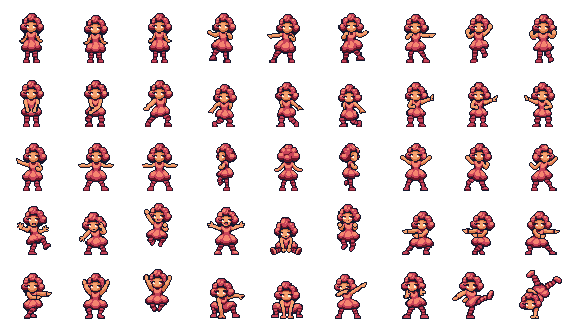
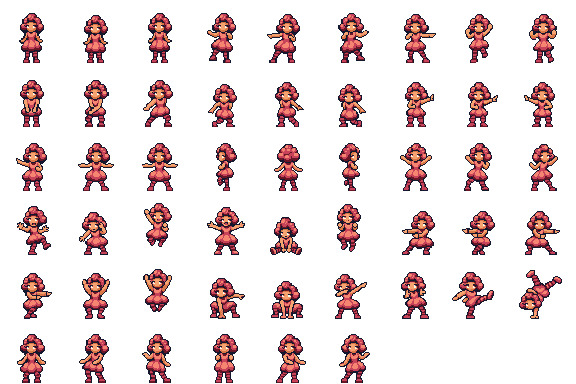
Add an idle dance loop so moves flow into each other
Both dancers now keep up a six-frame two-step groove while the music
plays, indexed from the beat so it holds its place through poses and
pauses. A lane pose is released on the next half beat instead of after
a fixed time, and each new pose gets a short squash, so the change back
to the groove lands on the music. The standing idle is kept for the
count-in.

The converter drops stray specks, and idle frames are centred on the
feet so the body sways without the feet sliding.

Claude-Session: https://claude.ai/code/session_01HtPH4yiA1RL6qEeafuyuW3

diff --git a/src/play/characters.ts b/src/play/characters.ts
@@ -3,8 +3,10 @@ import { PX, Tex, type Lane } from '../core/config';
 import type { RivalKind } from '../core/chart';
 import { Depth } from './layout';
 
-/** How long a dance pose is held before returning to idle, in seconds. */
-const POSE_HOLD = 0.55;
+/** Shortest time a dance pose is held, in seconds. It then ends on the next half beat. */
+const POSE_HOLD = 0.3;
+/** A pose never outstays this, however slow the song. */
+const POSE_MAX = 0.75;
 const POSE_FRAME_TIME = 0.11;
 /** Hitting the same lane again within this time switches to the alternate move. */
 const REPEAT_WINDOW = 1.2;
@@ -14,7 +16,13 @@ const SPIN_FINISH_TIME = 0.4;
 const FINISHER_TIME = 0.6;
 
 interface FrameSet {
+  /** Standing idle, used before the music starts. */
   idle: number[];
+  /**
+   * Idle dance: one frame per half beat, looped while the music plays. Poses
+   * drop back into it on the beat, wherever the loop has got to.
+   */
+  groove?: number[];
   /** One pose per lane: left, up, down, right. */
   lanes: number[][];
   /** A second move per lane, used when the same lane is hit twice in a row. */
@@ -37,6 +45,8 @@ interface FrameSet {
 // Shared by Blackberry and Raspberry. Frame layout is documented in tools/build_characters.py.
 const BERRY: FrameSet = {
   idle: [0, 1, 2],
+  // centre, left, left accent, left, centre, right, right accent, right
+  groove: [45, 46, 47, 46, 48, 49, 50, 49],
   lanes: [
     [3, 4],
     [7, 8],
@@ -89,24 +99,26 @@ export class Dancer {
   private readonly scene: Phaser.Scene;
   private readonly frames: FrameSet;
   private readonly baseY: number;
+  private readonly baseScale: number;
   private mode: Mode = 'idle';
   private sequence: number[] = [];
   private frameTime = POSE_FRAME_TIME;
   private duration = 0;
   private elapsed = 0;
-  private idleStep = 0;
   private lastHalfBeat = -Infinity;
   private lastLane = -1;
   private sinceDance = Infinity;
   private useAlt = false;
   private holding = false;
   private hype = false;
+  private grooving = false;
   private specialCount = 0;
 
   constructor(scene: Phaser.Scene, x: number, y: number, texture: string, frames: FrameSet, scale: number, originX: number, originY: number) {
     this.scene = scene;
     this.frames = frames;
     this.baseY = y;
+    this.baseScale = scale;
     this.sprite = scene.add.sprite(x, y, texture, frames.idle[0]).setOrigin(originX, originY).setScale(scale).setDepth(Depth.characters);
   }
 
@@ -127,12 +139,18 @@ export class Dancer {
     }
     this.lastLane = lane;
     this.sinceDance = 0;
-    this.start('pose', frames, POSE_FRAME_TIME, POSE_HOLD);
+    this.start('pose', frames, POSE_FRAME_TIME, POSE_MAX);
+    this.pop();
   }
 
   /** Groove in place while a hold note is being held. */
   setHolding(holding: boolean): void {
     this.holding = holding;
+  }
+
+  /** Switch from the standing idle to the idle dance once the music is playing. */
+  setGrooving(grooving: boolean): void {
+    this.grooving = grooving;
   }
 
   /** Bounce harder while the score multiplier is at its maximum. */
@@ -159,7 +177,7 @@ export class Dancer {
       this.start('special', [f.finishers![pick - 1]], FINISHER_TIME, FINISHER_TIME);
     }
     this.scene.tweens.killTweensOf(this.sprite);
-    this.sprite.setY(this.baseY);
+    this.sprite.setY(this.baseY).setScale(this.baseScale);
     this.scene.tweens.add({ targets: this.sprite, y: this.baseY - 4 * PX, duration: 130, yoyo: true, ease: 'Quad.easeOut' });
   }
 
@@ -180,24 +198,38 @@ export class Dancer {
       this.sprite.setFrame(this.sequence[Math.floor(this.elapsed / this.frameTime) % this.sequence.length]);
       return;
     }
+    const halfBeat = Math.floor(beat * 2);
     if (this.mode !== 'idle') {
-      if (this.elapsed < this.duration) {
+      // A lane pose is released on the first half beat after its minimum hold, so the
+      // return to the idle dance lands on the music instead of at an arbitrary moment.
+      const onBeat = this.mode === 'pose' && this.elapsed >= POSE_HOLD && halfBeat !== this.lastHalfBeat;
+      if (this.elapsed < this.duration && !onBeat) {
         this.sprite.setFrame(this.sequence[Math.min(this.sequence.length - 1, Math.floor(this.elapsed / this.frameTime))]);
+        this.lastHalfBeat = halfBeat;
         return;
       }
       this.mode = 'idle';
       this.lastHalfBeat = -Infinity;
     }
-    // Idle and hold grooves step once per half beat so the bounce follows the music.
-    const halfBeat = Math.floor(beat * 2);
     if (halfBeat === this.lastHalfBeat) return;
     this.lastHalfBeat = halfBeat;
-    this.idleStep++;
     const f = this.frames;
     let loop = f.idle;
     if (this.holding && f.hold) loop = f.hold;
-    else if (this.hype && f.hype !== undefined) loop = [f.hype, f.idle[1]];
-    this.sprite.setFrame(loop[this.idleStep % loop.length]);
+    else if (this.grooving && f.groove) loop = f.groove;
+    // Index from the beat itself, so the loop keeps its place through poses and pauses.
+    const step = Phaser.Math.Wrap(halfBeat, 0, loop.length);
+    const frame = this.hype && f.hype !== undefined && !this.holding && step % 4 === 0 ? f.hype : loop[step];
+    this.sprite.setFrame(frame);
+  }
+
+  /** A quick squash that makes a change of pose read as a deliberate hit. */
+  private pop(): void {
+    const s = this.sprite;
+    const scale = this.baseScale;
+    this.scene.tweens.killTweensOf(s);
+    s.setY(this.baseY).setScale(scale * 1.05, scale * 0.93);
+    this.scene.tweens.add({ targets: s, scaleX: scale, scaleY: scale, duration: 110, ease: 'Quad.easeOut' });
   }
 
   private start(mode: Mode, sequence: number[], frameTime: number, duration: number): void {

diff --git a/src/core/config.ts b/src/core/config.ts
@@ -63,8 +63,8 @@ export const Tex = {
   room: 'room', // 256x160
   train: 'train', // 25 frames, 256x160
   berrySit: 'berry_sit', // 25 frames, 75x75
-  blackberry: 'blackberry', // 45 frames, 64x64, feet at y=62 (layout in tools/build_characters.py)
-  raspberry: 'raspberry', // 45 frames, 64x64, same layout as blackberry
+  blackberry: 'blackberry', // 51 frames, 64x64, feet at y=62 (layout in tools/build_characters.py)
+  raspberry: 'raspberry', // 51 frames, 64x64, same layout as blackberry
   dancer: 'dancer', // 39 frames, 160x160
   notes: 'notes', // 8 frames, 18x18: 0-3 coloured notes, 4-7 pale receptors (lane order)
   arrowsClassic: 'arrows_classic', // 128x128 sheet of the older arrow style, 32x32 cells

diff --git a/src/scenes/PlayScene.ts b/src/scenes/PlayScene.ts
@@ -405,6 +405,8 @@ export class PlayScene extends Phaser.Scene {
       if (this.state === 'playing') {
         this.player.setHolding(([0, 1, 2, 3] as Lane[]).some((lane) => this.engine.heldNote(lane) !== null));
         this.player.setHype(this.engine.stats.multiplier >= 4);
+        this.player.setGrooving(time >= 0);
+        this.rival?.setGrooving(time >= 0);
       }
       this.player.update(dt, beat);
       this.rival?.update(dt, beat);

diff --git a/tools/build_characters.py b/tools/build_characters.py
@@ -3,7 +3,7 @@
 
 Run from the repo root:  python3 tools/build_characters.py
 
-Both characters share one frame layout (45 frames, 64x64 cells, 9 per row) so
+Both characters share one frame layout (51 frames, 64x64 cells, 9 per row) so
 the game can drive them with the same code:
 
    0-2   idle
@@ -15,11 +15,12 @@ the game can drive them with the same code:
   29-30  victory     31 defeat         32 hype bounce
   33-34  left (alt)  35-36 right (alt) 37-38 up (alt)    39-40 down (alt)
   41 dab  42 finger guns  43 high kick  44 freeze
+  45-50  idle dance: centre low, left, left accent, centre high, right, right accent
 
 Directions are named by where the pose points on screen. (The Unity project
 labelled 11-12 "down right" and 13-14 "down left", the other way round.)
 
-Blackberry's frames 0-20 are the original 2021 sprites. His frames 21-44 and
+Blackberry's frames 0-20 are the original 2021 sprites. His frames 21-50 and
 all of Raspberry's frames were generated with an image model from the original
 art, then converted to real pixel art by tools/pixelize_sprites.py. Those
 converted sheets live in archive/generated-sprites and can be edited by hand;
@@ -37,7 +38,7 @@ OUT = ROOT / "public" / "assets" / "img"
 
 CELL = 64
 COLUMNS = 9
-FRAMES = 45
+FRAMES = 51
 CENTER_X = 32
 BASELINE = 62  # y of the lowest pixel row of a character standing on the floor
 
@@ -46,6 +47,7 @@ BLACKBERRY = {21 + i: ("blackberry_e", i) for i in range(6)}
 BLACKBERRY |= {27 + i: ("blackberry_f", i) for i in range(6)}
 BLACKBERRY |= {33 + i: ("blackberry_g", i) for i in range(6)}
 BLACKBERRY |= {39 + i: ("blackberry_h", i) for i in range(6)}
+BLACKBERRY |= {45 + i: ("blackberry_i", i) for i in range(6)}
 
 RASPBERRY = {i: ("raspberry_a", i) for i in range(6)}
 RASPBERRY |= {6: ("raspberry_b", 0), 7: ("raspberry_b", 1), 8: ("raspberry_b", 2), 9: ("raspberry_b", 3), 10: ("raspberry_b", 4)}
@@ -57,9 +59,13 @@ RASPBERRY |= {21 + i: ("raspberry_e", i) for i in range(6)}
 RASPBERRY |= {27 + i: ("raspberry_f", i) for i in range(6)}
 RASPBERRY |= {33 + i: ("raspberry_g", i) for i in range(6)}
 RASPBERRY |= {39 + i: ("raspberry_h", i) for i in range(6)}
+RASPBERRY |= {45 + i: ("raspberry_i", i) for i in range(6)}
 
 # Frames where the character is in the air: how many pixels the feet are off the floor.
 LIFT = {29: 8, 32: 3, 38: 7}
+# Frames that are centred on the feet rather than kept where the model drew them.
+# The idle loops need this: the body sways but the feet must not slide.
+FEET_ANCHORED = {0, 1, 2, 45, 46, 47, 48, 49, 50}
 # Per-frame horizontal nudges, in pixels, where the generated pose sat off-centre.
 NUDGE_X: dict[str, dict[int, int]] = {"blackberry": {}, "raspberry": {}}
 
@@ -76,7 +82,12 @@ def place(frame_index: int, cell: Image.Image, nudge: int) -> Image.Image:
     ys, xs = np.nonzero(alpha)
     sprite = cell.crop((xs.min(), ys.min(), xs.max() + 1, ys.max() + 1))
     out = Image.new("RGBA", (CELL, CELL), (0, 0, 0, 0))
-    x = min(max(int(xs.min()) + nudge, 0), CELL - sprite.width)
+    if frame_index in FEET_ANCHORED:
+        feet = np.nonzero(alpha[ys.max() - 2:ys.max() + 1].any(axis=0))[0]
+        x = CENTER_X - int(round((feet.min() + feet.max() + 1) / 2)) + int(xs.min()) + nudge
+    else:
+        x = int(xs.min()) + nudge
+    x = min(max(x, 0), CELL - sprite.width)
     y = BASELINE + 1 - LIFT.get(frame_index, 0) - sprite.height
     out.alpha_composite(sprite, (x, max(y, 0)))
     return out

diff --git a/tools/pixelize_sprites.py b/tools/pixelize_sprites.py
@@ -82,6 +82,31 @@ def snap_to_palette(sprite, palette):
     return px.reshape(sprite.shape).astype(np.uint8)
 
 
+def drop_specks(sprite, min_size=12):
+    """Remove stray blobs that are not part of the character (8-connected, smaller than min_size)."""
+    solid = sprite[..., 3] > 0
+    seen = np.zeros_like(solid)
+    h, w = solid.shape
+    for y0, x0 in zip(*np.nonzero(solid)):
+        if seen[y0, x0]:
+            continue
+        stack, blob = [(y0, x0)], []
+        seen[y0, x0] = True
+        while stack:
+            y, x = stack.pop()
+            blob.append((y, x))
+            for dy in (-1, 0, 1):
+                for dx in (-1, 0, 1):
+                    ny, nx = y + dy, x + dx
+                    if 0 <= ny < h and 0 <= nx < w and solid[ny, nx] and not seen[ny, nx]:
+                        seen[ny, nx] = True
+                        stack.append((ny, nx))
+        if len(blob) < min_size:
+            for y, x in blob:
+                sprite[y, x] = 0
+    return sprite
+
+
 def palette_of(path):
     px = np.array(Image.open(path).convert("RGBA")).reshape(-1, 4)
     return np.unique(px[px[:, 3] > 0][:, :3], axis=0).astype(np.int32)
@@ -99,7 +124,7 @@ def pixelize(path, cols, rows, palette):
     for n, cell in enumerate(cells):
         _, phase_x = best_grid(edge_profile(cell, 0), [p])
         _, phase_y = best_grid(edge_profile(cell, 1), [p])
-        sprite = snap_to_palette(sample(cell, p, phase_x, phase_y), palette)
+        sprite = drop_specks(snap_to_palette(sample(cell, p, phase_x, phase_y), palette))
         ys, xs = np.nonzero(sprite[..., 3])
         sprite = sprite[ys.min():ys.max() + 1, xs.min():xs.max() + 1]
         # Where the sprite sat in the source cell, in art pixels from the cell's centre and bottom.

diff --git a/README.md b/README.md
@@ -106,7 +106,7 @@ For GitHub Pages: enable Pages with "GitHub Actions" as the source under Setting
 - Notes are timed from the audio clock instead of frame time, with a calibration offset.
 - Beat maps are JSON measured in beats, instead of binary files tied to the Unity build. The six original test levels are preserved as JSON in `archive/legacy-charts`.
 - Hold notes are single long notes rather than runs of small ones.
-- Raspberry, who only existed as one concept sprite, is the Level 1 rival with a full 45-frame move set. Blackberry gained 24 new frames: alternate moves, a hold groove, a stumble, victory and defeat poses, and showpieces (spin, dab, kick, freeze) that fire on combo milestones. These new frames were generated with an image model from the original sprites and converted to real pixel art; see `tools/build_characters.py`. Blackberry's 21 original frames are unchanged.
+- Raspberry, who only existed as one concept sprite, is the Level 1 rival with a full 51-frame move set. Blackberry gained 30 new frames: an idle dance loop that both characters keep up between moves, alternate moves, a hold groove, a stumble, victory and defeat poses, and showpieces (spin, dab, kick, freeze) that fire on combo milestones. These new frames were generated with an image model from the original sprites and converted to real pixel art; see `tools/build_characters.py`. Blackberry's 21 original frames are unchanged.
 - The story levels have new charts for Nicole Yazmin's tracks. The old test levels were timed to a placeholder song that is not part of the game.
 - The menu's "Online" entry, which was never built, is replaced by Beat Maps.
 
